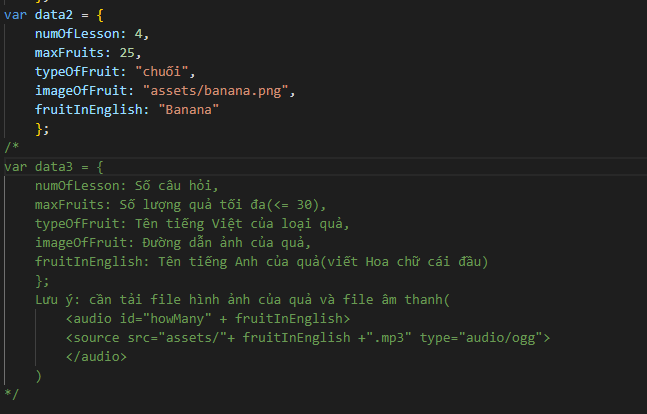
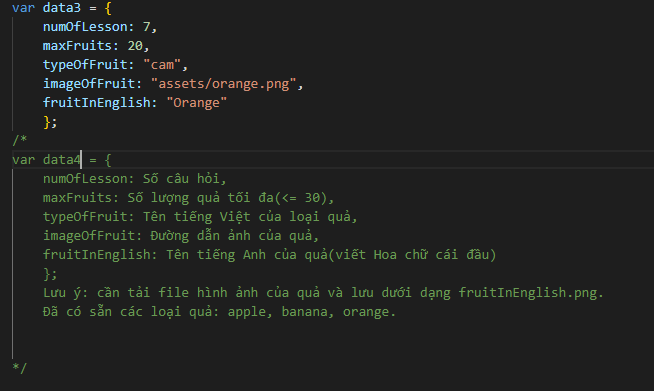
close #18

diff --git a/game.js b/game.js
@@ -1,5 +1,5 @@
 
-var obj = data2;
+var obj = data1; /// change data here
 
 
 var lesson = 0; 
@@ -165,7 +165,7 @@ function restart()
     document.getElementById("questionHowMany").innerHTML = "Có bao nhiêu quả " + typeOfFruit + " ở trong hộp?";
     document.getElementById("numberOfFruitIs").innerHTML = "Số quả " + typeOfFruit + " là:";
 
-    document.getElementById("speaker").addEventListener("click", speakerFunction);
+    //document.getElementById("speaker").addEventListener("click", speakerFunction);
     //document.getElementById("confirm").addEventListener("click", checkResult);
     
     document.getElementById("refreshIcon").addEventListener("click",clearInput);
@@ -233,7 +233,7 @@ function enableSoundEffectsFunction(){
        
     }
 }
-function speakerFunction(){
+/*function speakerFunction(){
     var howManyFruit = document.getElementById(fruitInEnglish);
     
     if(soundEffectsOn == true){
@@ -243,7 +243,7 @@ function speakerFunction(){
     else{
         howManyFruit.volume = 0;
     }
-}
+}*/
 function playAudio(play) {
     document.getElementById(play).play();
 }
@@ -289,7 +289,7 @@ function hint(){
     next.style.visibility = "hidden";
     hintBox.style.visibility = "visible";
     hintBox.innerHTML = "Được rồi";
-    speaker.removeEventListener("click",speakerFunction);
+    //speaker.removeEventListener("click",speakerFunction);
     refreshIcon.removeEventListener("click",clearInput);
     hintIcon.removeEventListener("click",hint);
     nextIcon.removeEventListener("click",nextQuestion);
@@ -323,7 +323,7 @@ function hint(){
         hintBox.style.visibility = "hidden";
         
         messsage.style = "margin-top:30px";
-        speaker.addEventListener("click", speakerFunction);
+       // speaker.addEventListener("click", speakerFunction);
         refreshIcon.addEventListener("click", clearInput);
         nextIcon.addEventListener("click", nextQuestion);
         hintIcon.addEventListener("click", hint);
@@ -350,7 +350,7 @@ function nextQuestion(){
     var hintBox = document.getElementById("hintBox");
     var enableBackgroundMusic = document.getElementById("enableBackgroundMusic");
     var enableSoundEffects = document.getElementById("enableSoundEffects");
-    var speaker = document.getElementById("speaker");
+   // var speaker = document.getElementById("speaker");
     var confirm = document.getElementById("confirm");
     var input = document.getElementById("input");
     var refreshIcon = document.getElementById("refreshIcon");
@@ -375,7 +375,7 @@ function nextQuestion(){
     hintBox.style.visibility = "visible";
     hintBox.innerHTML = "Đồng ý";
     confirm.style.visibility = "hidden";
-    speaker.removeEventListener("click",speakerFunction);
+  //  speaker.removeEventListener("click",speakerFunction);
     refreshIcon.removeEventListener("click",clearInput);
     hintIcon.removeEventListener("click",hint);
     nextIcon.removeEventListener("click",nextQuestion);
@@ -406,7 +406,7 @@ function nextQuestion(){
             hintBox.style.visibility = "hidden";
             
             messsage.style = "margin-top:30px";
-            speaker.addEventListener("click", speakerFunction);
+          //  speaker.addEventListener("click", speakerFunction);
             refreshIcon.addEventListener("click",clearInput);
             hintIcon.addEventListener("click", hint);
             nextIcon.addEventListener("click", nextQuestion);
@@ -464,7 +464,7 @@ function nextQuestion(){
             confirm.style.visibility = "visible";
             
             messsage.style = "margin-top:30px";
-            speaker.addEventListener("click", speakerFunction);
+           // speaker.addEventListener("click", speakerFunction);
             refreshIcon.addEventListener("click",clearInput);
             hintIcon.addEventListener("click", hint);
             nextIcon.addEventListener("click", nextQuestion);
@@ -494,7 +494,7 @@ function nextQuestion(){
             confirm.style.visibility = "visible";
             
             messsage.style = "margin-top:30px";
-            speaker.addEventListener("click", speakerFunction);
+           // speaker.addEventListener("click", speakerFunction);
             refreshIcon.addEventListener("click",clearInput);
             hintIcon.addEventListener("click", hint);
             nextIcon.addEventListener("click", nextQuestion);

diff --git a/config.js b/config.js
@@ -14,19 +14,25 @@ var data2 = {
     imageOfFruit: "assets/banana.png", 
     fruitInEnglish: "Banana"
     };
-/*
 var data3 = {
+    numOfLesson: 7,
+    maxFruits: 20, 
+    typeOfFruit: "cam",
+    imageOfFruit: "assets/orange.png", 
+    fruitInEnglish: "Orange"
+    };
+/*
+var data4 = {
     numOfLesson: Số câu hỏi,
     maxFruits: Số lượng quả tối đa(<= 30),
     typeOfFruit: Tên tiếng Việt của loại quả,
     imageOfFruit: Đường dẫn ảnh của quả,
     fruitInEnglish: Tên tiếng Anh của quả(viết Hoa chữ cái đầu)
     };
-    Lưu ý: cần tải file hình ảnh của quả và file âm thanh(
-        <audio id="howMany" + fruitInEnglish>
-        <source src="assets/"+ fruitInEnglish +".mp3" type="audio/ogg">
-	    </audio>
-    )
+    Lưu ý: cần tải file hình ảnh của quả và lưu dưới dạng fruitInEnglish.png.
+    Đã có sẵn các loại quả: apple, banana, orange.
+    
+    
 */ 
     
 

diff --git a/style.css b/style.css
@@ -48,8 +48,9 @@ body {
     height: 50px;
     text-align: center;
     font-family: Arial, Helvetica, sans-serif;
-    background-color: aquamarine;
+    
     background: url("assets/music.png") center no-repeat;
+    background-color: aquamarine;
     background-size: 40px;
     cursor: pointer;
     border-radius: 10px;
@@ -145,6 +146,7 @@ body {
     width: 30px;
     height: 30px;
     background-size: 30px;
+    visibility: hidden;
     
     left: 30px;
     top: 20px;
@@ -318,6 +320,7 @@ height: 50px;
     height: 45px;
     
     background-size: 45px;
+    background-repeat: no-repeat;
     float: left;
 }
 #optionBox {

diff --git a/index.html b/index.html
@@ -6,10 +6,7 @@
     <title>Điền tên cho ảnh</title>
 	<link href="style.css" rel="stylesheet">
 	<script type="text/javascript" src="config.js"></script>
-	<script>
-		
-
-	</script>
+	
 	<script type="text/javascript" src="game.js"></script> 
 	
 	

diff --git a/README.md b/README.md
@@ -24,10 +24,10 @@ Thành phần màn hình chơi gồm có:
 ### Trợ giúp
 Lưu ý: chỉ sử dụng được nếu bạn còn đủ sự trợ giúp.
 #### Gợi ý
-Bấm vào nút gợi ý(biểu tượng bóng đèn phía dưới màn hình), hộp thoại gợi ý hiện ra và bạn mất 1 sự trợ giúp.
+Bấm vào nút gợi ý(biểu tượng bóng đèn phía dưới màn hình), hộp thoại gợi ý hiện ra và bạn mất 1 sự trợ giúp. Nhấn nút "Được rồi" để đóng hộp thoại.
  ![Screenshot](https://github.com/zullykul24/brandnew/blob/master/assets/forReadme/hintBox.png)
 #### Bỏ qua
-Bấm vào nút bỏ qua(biểu tượng mũi tên phía dưới màn hình), hộp thoại hiện ra. Khi đó bạn chọn Đồng ý thì màn hình sẽ chuyển sang câu tiếp theo hoặc trò chơi kết thúc nếu đó là câu cuối, bạn mất 2 sự trợ giúp cho việc này. Nếu chọn Từ chối, hộp thoại sẽ biến mất.
+Bấm vào nút bỏ qua(biểu tượng mũi tên phía dưới màn hình), hộp thoại hiện ra. Khi đó bạn chọn "Đồng ý" thì màn hình sẽ chuyển sang câu tiếp theo hoặc trò chơi kết thúc nếu đó là câu cuối, bạn mất 2 sự trợ giúp cho việc này. Nếu chọn "Từ" chối, hộp thoại sẽ biến mất.
  ![Screenshot](https://github.com/zullykul24/brandnew/blob/master/assets/forReadme/nextBox.png)
 ## III. Thay đổi dữ liệu
 Thêm/thay đổi dữ liệu trong file config.js như sau:
